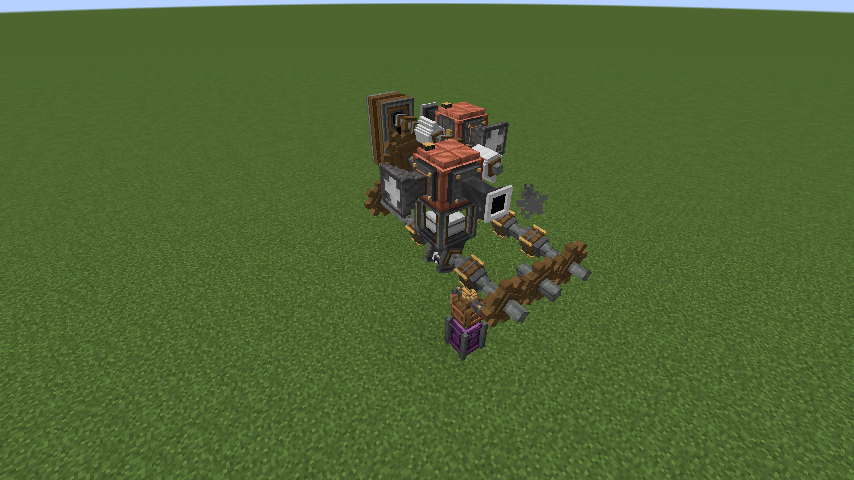
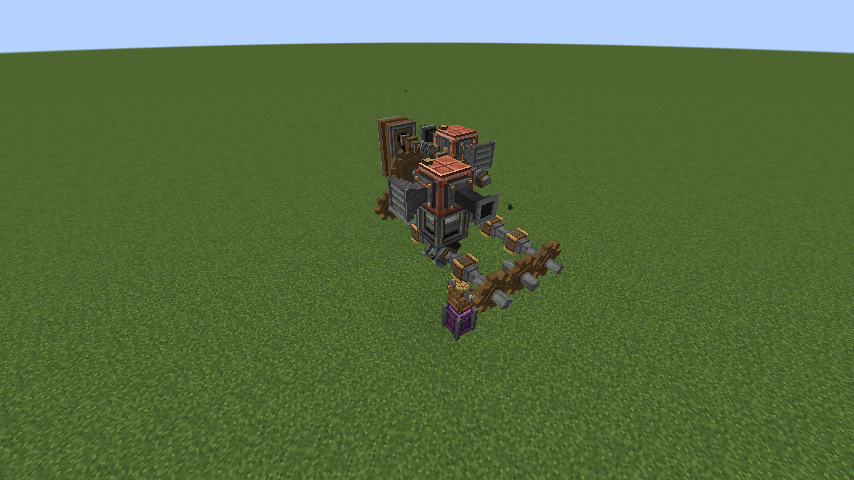
Retake the listing screenshots with the new art for 0.2.0

Changed region(s): [[0.0, 0.1875, 1.0, 1.0], [0.0, 0.0, 1.0, 0.125]]

diff --git a/docs/LISTING.md b/docs/LISTING.md
@@ -131,6 +131,12 @@ config thins out engine sound and particles on a big engine. Fuel properties are
 - [Design notes](https://github.com/R-unic/create-engines/blob/master/docs/DESIGN.md), how the simulation works
 ```
 
+## Changelog for 0.2.0
+
+New art. The mod's metals are repainted to match Create's, with the same rims and strokes in Create's own colours. Vanilla's
+copper, magma, lava, smooth stone and trapdoor are gone from the models, the fluids have their own thin and thick textures in
+place of tinted water, and hot metal on a heat exchanger gives its own light. The advancement tab has a tread plate background.
+
 ## Changelog for 0.1.0
 
 First public release. Everything in the description above.
